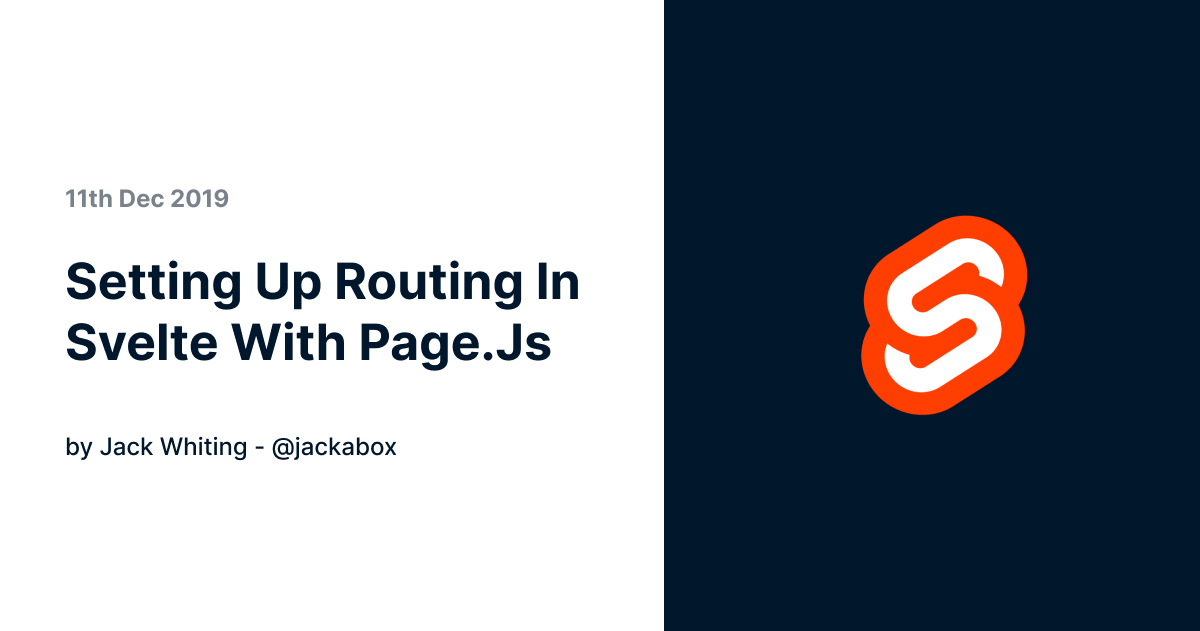
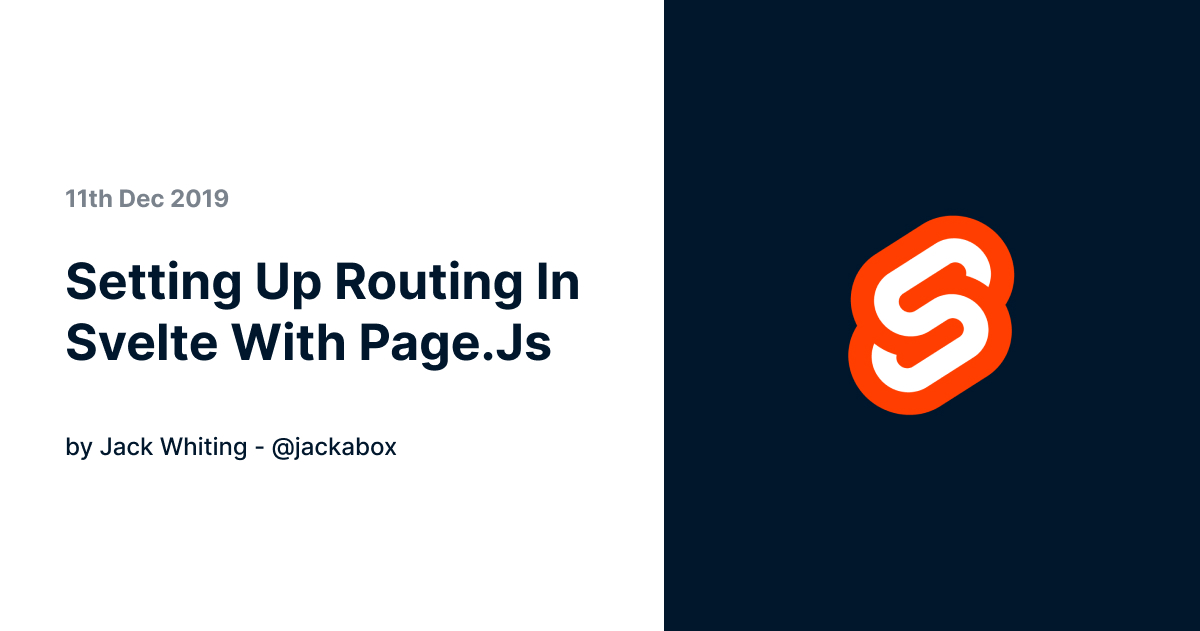
OG images, default OG and updates

Changed region(s): [[0.7092, 0.3312, 0.8633, 0.6624]]

diff --git a/themes/twentytwenty/layouts/series/list.html b/themes/twentytwenty/layouts/series/list.html
@@ -23,7 +23,7 @@
           <div class="flex flex-col">
             <h2 class="mb-3"><a href="{{.Permalink}}" title="Link to {{ .Title }}" class="no-underscore no-hover">{{ .Title}}</a></h2>
             <p class="mb-5">{{ .Summary }}</p>
-            <p class="mt-auto"><a class="font-medium" href="{{.Permalink}}" title="Link to {{ .Title }}">View Post</a></p>
+            <p class="mt-auto"><a class="btn" href="{{.Permalink}}" title="Link to {{ .Title }}">View Post</a></p>
           </div>
         </div>
       </article>

diff --git a/themes/twentytwenty/layouts/partials/head.html b/themes/twentytwenty/layouts/partials/head.html
@@ -43,6 +43,11 @@
   <meta property="og:image" content="{{ . | absURL }}" /> 
   <meta name="twitter:image" content="{{ . | absURL }}" />
   <meta name="twitter:image:src" content="{{ . | absURL }}" /> 
+  {{ else }}
+  <meta itemprop="image" content="/img/og-default.jpg" />
+  <meta property="og:image" content="/img/og-default.jpg" /> 
+  <meta name="twitter:image" content="/img/og-default.jpg" />
+  <meta name="twitter:image:src" content="/img/og-default.jpg" /> 
   {{ end }}
 
   <!-- RSS & Sitemap -->

diff --git a/CHANGELOG.md b/CHANGELOG.md
@@ -1,9 +1,10 @@
 # 2020-02-28
-
 - Fixed some typos with Routing, Sveltejs and Pagejs
 - Removed share links as noone actually uses them...
-- Updating the home page to have a bit more personality.
+- Updating the home page to have bigger branding.
 - Updated favicon to match brand more.
+- Added in OG Images
+- Refactored btn links on series
 
 # 2020-02-11
 

diff --git a/content/posts/2019-12-04-setting-up-svelte-with-tailwind-css.md b/content/posts/2019-12-04-setting-up-svelte-with-tailwind-css.md
@@ -9,6 +9,7 @@ categories:
   - Tailwind
 series:
   - 'Working with Svelte'
+ogImage: '/img/posts/og-setting-up-svelte-tailwind.jpg'
 ---
 <div class="rounded-lg p-6 lg:p-8 bg-site-orange mb-10">
   <p>This article is part of a series of posts about Working with Svelte. The topics and articles we have (or will) cover are as follows:</p>

diff --git a/content/posts/2020-01-15-refactoring-our-router-in-svelte.md b/content/posts/2020-01-15-refactoring-our-router-in-svelte.md
@@ -8,6 +8,7 @@ categories:
   - Svelte
 series:
   - 'Working with Svelte'
+ogImage: '/img/posts/og-refactoring-svelte-router.jpg' 
 ---
 <div class="rounded-lg p-6 lg:p-8 bg-site-orange mb-10">
   <p>This article is part of a series of posts about Working with Svelte. The topics and articles we have (or will) cover are as follows:</p>
